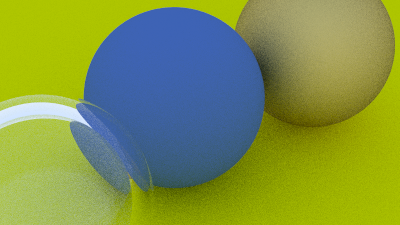
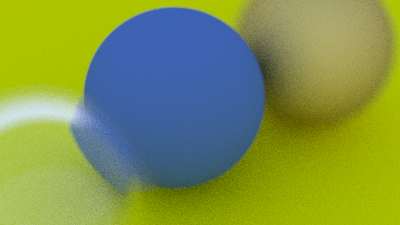
added defocus blur

diff --git a/src/camera.h b/src/camera.h
@@ -13,7 +13,8 @@
 
 class PerspectiveCamera {
     int32_t height, width, samples, max_depth;
-    glm::vec3 center, pixel00, dv, du;
+    float focal_distance, defocus_angle;
+    glm::vec3 center, pixel00, du, dv, disk_u, disk_v;
 
 public:
     PerspectiveCamera(
@@ -23,17 +24,23 @@ public:
         int32_t height,
         int32_t width,
         float fov,
+        float focal_distance,
+        float defocus_angle,
         int32_t samples,
         int32_t max_depth
-    ) : center(center), height(height), width(width), samples(samples), max_depth(max_depth) {
+    ) : center(center), height(height), width(width), focal_distance(focal_distance), samples(samples), max_depth(max_depth), defocus_angle(defocus_angle) {
         float widthf = static_cast<float>(width);
         float heightf = static_cast<float>(height);
 
-        float magnitude = 2.0f * std::tan(fov / 2.0f) / widthf;
+        float magnitude = 2.0f * focal_distance * std::tan(fov / 2.0f) / widthf;
         du = glm::normalize(glm::cross(direction, up)) * magnitude;
-        dv = glm::normalize(glm::cross(direction, du))* magnitude;
+        dv = glm::normalize(glm::cross(direction, du)) * magnitude;
 
-        pixel00 = center + glm::normalize(direction)
+        float disk_radius = focal_distance * std::tan(defocus_angle / 2.0f);
+        disk_u = glm::normalize(glm::cross(direction, up)) * disk_radius;
+        disk_v = glm::normalize(glm::cross(direction, du)) * disk_radius;
+
+        pixel00 = center + focal_distance * glm::normalize(direction)
                     - du * (widthf / 2.0f)
                     - dv * (heightf / 2.0f);
     }
@@ -93,10 +100,19 @@ public:
         // float random_w = std::rand() / (RAND_MAX + 1.0f) - 0.5f;
         float random_h = static_cast<float>(h) + random_float();
         float random_w = static_cast<float>(w) + random_float();
+        glm::vec3 origin;
+
+        if (defocus_angle <= 0) {
+            origin = center;
+        } else {
+            glm::vec2 p = random_disk();
+            origin = center + p.x * disk_u + p.y * disk_v;
+        }
+
         glm::vec3 direction = glm::normalize(
-            pixel00 + dv * random_h + du * random_w - center
+            pixel00 + dv * random_h + du * random_w - origin
         );
-        return Ray(center, direction);
+        return Ray(origin, direction);
     }
 
     glm::vec3 get_color(const Ray &r, const ObjectList &world, int32_t depth) const {

diff --git a/src/main.cpp b/src/main.cpp
@@ -29,7 +29,21 @@ int main(int argc, char *argv[]) {
     float fov = 2.11681373f/3.5f;
     int32_t samples = 100;
     int32_t max_depth = 50;
-    PerspectiveCamera perspectiveCamera(center, direction, up, height, width, fov, samples, max_depth);
+    float focal_distance = 3.4f;
+    float defocus_angle = 10.0f / 360.0f * 2.0f * std::numbers::pi_v<float>;
+
+    PerspectiveCamera perspectiveCamera(
+        center,
+        direction,
+        up,
+        height,
+        width,
+        fov,
+        focal_distance,
+        defocus_angle,
+        samples,
+        max_depth
+    );
 
     // materials
     std::shared_ptr<Material> material_ground = std::make_shared<Lambertian>(glm::vec3(0.8, 0.8, 0.0));

diff --git a/src/random.h b/src/random.h
@@ -10,9 +10,8 @@ inline float random_float() {
     return distribution(generator);
 }
 
-inline glm::vec3 random_disk() {
-    glm::vec2 temp = glm::diskRand(1.0f);
-    return glm::vec3(temp.x, temp.y, 0.0f);
+inline glm::vec2 random_disk() {
+    return glm::diskRand(1.0f);
 }
 
 inline glm::vec3 random_sphere() {
